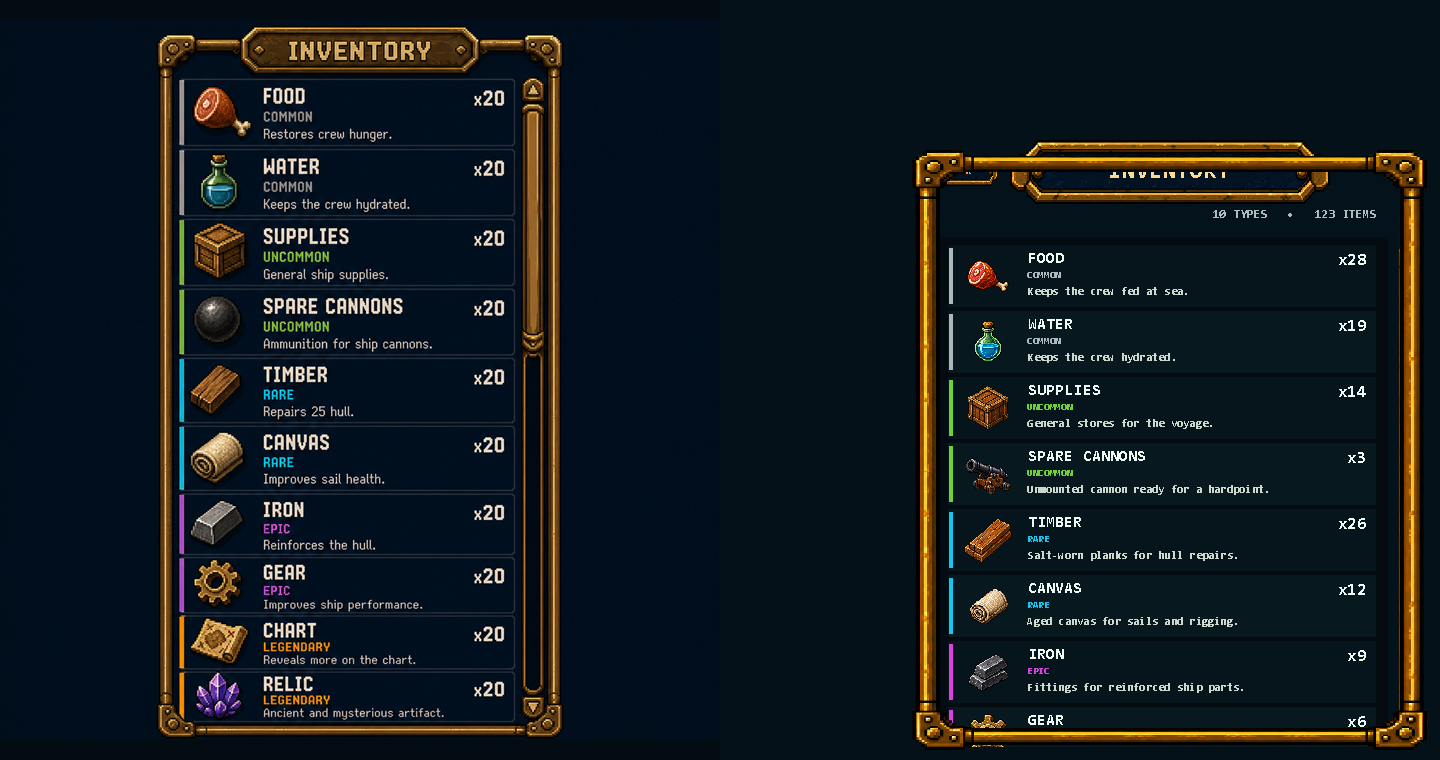
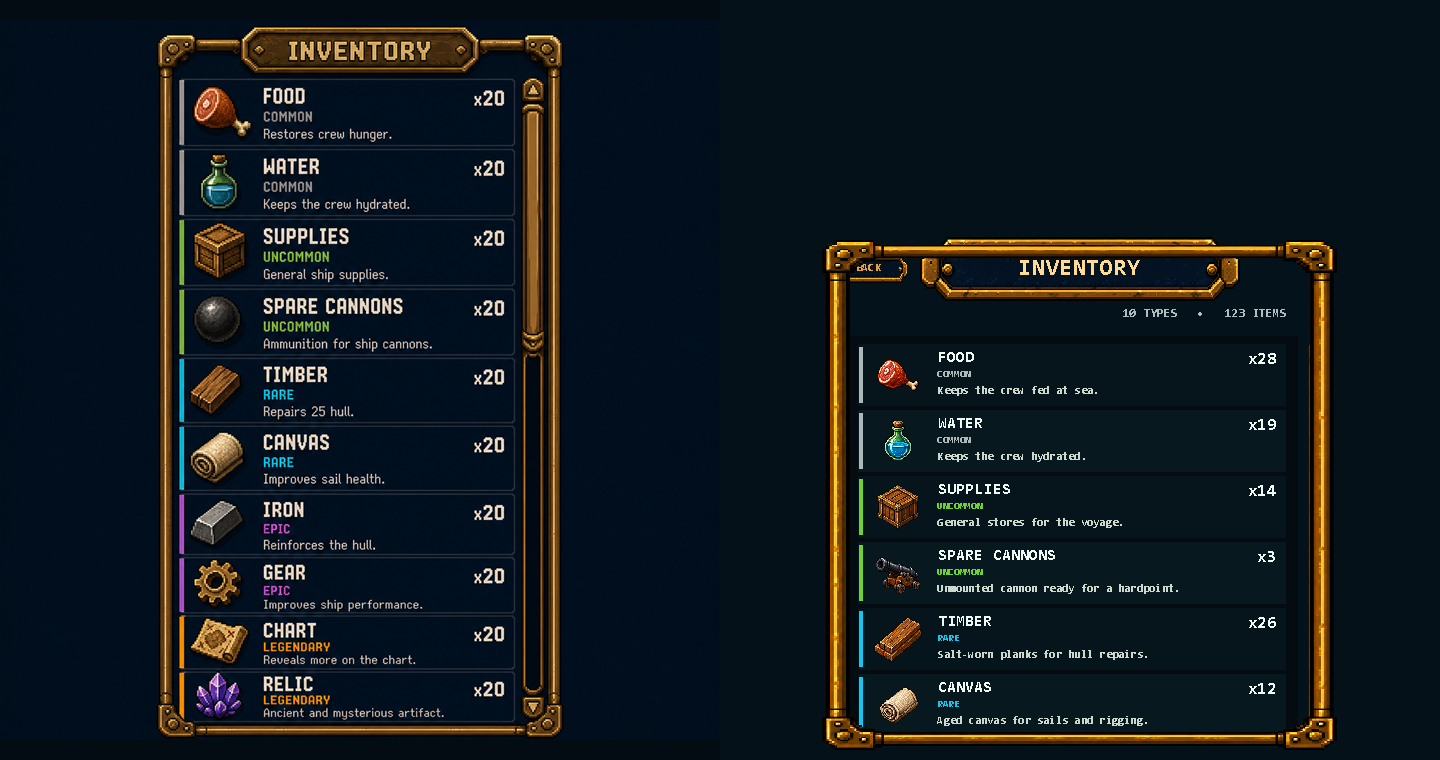
Center modal UI and keep concept art local

Changed region(s): [[0.5625, 0.1816, 1.0, 0.9987], [0.7812, 0.8776, 0.8125, 0.9079], [0.7812, 0.4539, 0.8125, 0.4842]]

diff --git a/Assets/Desktopirates/Scripts/Runtime/MenuController.cs b/Assets/Desktopirates/Scripts/Runtime/MenuController.cs
@@ -137,12 +137,17 @@ namespace Desktopirates
             loadBar.fillAmount = Mathf.Clamp01(loadRatio);
             hullBar.color = state.Hull <= state.MaxHull * 0.3f ? UiTheme.Danger : UiTheme.Mint;
             loadBar.color = loadRatio >= 0.92f ? UiTheme.Danger : loadRatio >= 0.78f ? UiTheme.Warning : UiTheme.Brass;
-            bool normalHud = (inventory == null || !inventory.IsOpen) && !IsModalOpen;
-            hudRoot.SetActive(normalHud);
-            inventory?.SetLauncherVisible(normalHud);
-            if (compassRoot != null) compassRoot.SetActive(normalHud);
+            bool normalNavigation = (inventory == null || !inventory.IsOpen) && !IsModalOpen;
+            // Hull, gold, crew and load are persistent ship state. Hiding them while
+            // shopping or sorting cargo made every decision harder to evaluate.
+            bool persistentStatusPanel = (inventory != null && inventory.IsOpen)
+                || (portRoot != null && portRoot.activeSelf)
+                || (shipyardRoot != null && shipyardRoot.activeSelf);
+            hudRoot.SetActive(normalNavigation || persistentStatusPanel);
+            inventory?.SetLauncherVisible(normalNavigation);
+            if (compassRoot != null) compassRoot.SetActive(normalNavigation);
             prompt.text = pois.InteractionPrompt;
-            prompt.transform.parent.gameObject.SetActive(normalHud && !string.IsNullOrEmpty(prompt.text));
+            prompt.transform.parent.gameObject.SetActive(normalNavigation && !string.IsNullOrEmpty(prompt.text));
             toast.transform.parent.gameObject.SetActive((inventory == null || !inventory.IsOpen) && Time.unscaledTime < toastUntil);
             if (mapRoot != null && Time.unscaledTime >= nextMapLiveUpdate) UpdateLiveMap();
             if (captainLogRoot != null && captainLogRoot.activeSelf) RefreshCaptainLog();
@@ -323,13 +328,13 @@ namespace Desktopirates
             back.sprite = UiTextureFactory.LoadConceptSprite("Chrome", "port_panel_frame");
             back.color = Color.white;
             RectTransform rect = (RectTransform)portRoot.transform;
-            rect.anchoredPosition = new Vector2(0f, -398f);
+            rect.anchoredPosition = new Vector2(0f, -UiLayoutMetrics.PortCenterY);
             rect.sizeDelta = Vector2.one * UiLayoutMetrics.PortFrameSize;
-            AddAuthoredPanelFill(portRoot.transform, new Vector2(458f, 458f));
+            AddAuthoredPanelFill(portRoot.transform, Vector2.one * (UiLayoutMetrics.PortFrameSize - 82f));
             AddPanelFrameOverlay(portRoot.transform, "port_panel_frame", rect.sizeDelta);
 
             RectTransform board = CreateUiObject("Harbor Readable Service Board", portRoot.transform);
-            board.anchoredPosition = new Vector2(28f, -2f);
+            board.anchoredPosition = new Vector2(UiLayoutMetrics.PortServiceBoardOffsetX, -2f);
             board.sizeDelta = new Vector2(UiLayoutMetrics.PortServiceBoardWidth, 452f);
             Image boardFill = board.gameObject.AddComponent<Image>(); boardFill.sprite = null; boardFill.color = Color.clear; boardFill.raycastTarget = false;
 
@@ -356,9 +361,9 @@ namespace Desktopirates
             shipyardRoot = CreateUiObject("Shipyard Customization", canvas).gameObject;
             Image back = shipyardRoot.AddComponent<Image>(); back.sprite = UiTextureFactory.LoadConceptSprite("Chrome", "shipyard_panel_frame"); back.color = Color.white;
             RectTransform rect = (RectTransform)shipyardRoot.transform;
-            rect.anchoredPosition = new Vector2(0f, -410f);
-            rect.sizeDelta = new Vector2(560f, 580f);
-            AddAuthoredPanelFill(shipyardRoot.transform, new Vector2(482f, 502f));
+            rect.anchoredPosition = new Vector2(0f, -500f);
+            rect.sizeDelta = new Vector2(560f, 500f);
+            AddAuthoredPanelFill(shipyardRoot.transform, new Vector2(482f, 422f));
             AddPanelFrameOverlay(shipyardRoot.transform, "shipyard_panel_frame", rect.sizeDelta);
             RectTransform titleFill = CreateUiObject("Shipyard Title Navy Fill", shipyardRoot.transform);
             titleFill.anchoredPosition = new Vector2(0f, 230f);

diff --git a/Assets/Desktopirates/Tests/EditMode/ArtPipelineTests.cs b/Assets/Desktopirates/Tests/EditMode/ArtPipelineTests.cs
@@ -167,6 +167,7 @@ namespace Desktopirates.Tests
             float summaryBottom = summaryTop + 22f;
             float viewportTop = InventoryManifestModel.PanelTopOffset - InventoryManifestModel.ViewportCenterY - InventoryManifestModel.ViewportHeight * 0.5f;
             Assert.That(titleTop - InventoryManifestModel.MenuCircleBottom, Is.GreaterThanOrEqualTo(8f));
+            Assert.That(titleTop - InventoryManifestModel.HudDashboardBottom, Is.GreaterThanOrEqualTo(8f));
             Assert.That(summaryTop, Is.GreaterThanOrEqualTo(titleBottom));
             Assert.That(viewportTop - summaryBottom, Is.GreaterThanOrEqualTo(8f));
 
@@ -176,6 +177,17 @@ namespace Desktopirates.Tests
             float countLeft = InventoryManifestModel.CountCenterX - InventoryManifestModel.CountWidth * 0.5f;
             Assert.That(textLeft - iconRight, Is.GreaterThanOrEqualTo(8f));
             Assert.That(countLeft - textRight, Is.GreaterThanOrEqualTo(8f));
+        }
+
+        [Test]
+        public void HarborAndInventoryPanels_AreCenteredBelowPersistentHud()
+        {
+            Assert.That(InventoryManifestModel.PanelCenterX, Is.EqualTo(0f));
+            Assert.That(UiLayoutMetrics.PortServiceBoardOffsetX, Is.EqualTo(0f));
+            Assert.That(UiLayoutMetrics.PortCenterY - UiLayoutMetrics.PortFrameSize * 0.5f,
+                Is.GreaterThan(InventoryManifestModel.HudDashboardBottom));
+            Assert.That(UiLayoutMetrics.PortCenterY + UiLayoutMetrics.PortFrameSize * 0.5f,
+                Is.LessThanOrEqualTo(InventoryManifestModel.ReferenceCanvasHeight));
         }
 
         [Test]

diff --git a/Assets/Desktopirates/Scripts/Runtime/InventoryManifestModel.cs b/Assets/Desktopirates/Scripts/Runtime/InventoryManifestModel.cs
@@ -31,19 +31,20 @@ namespace Desktopirates
         public const int EntryCount = 10;
         public const float RowHeight = 62f;
         public const float RowStride = 66f;
-        public const float ViewportHeight = 510f;
+        public const float ViewportHeight = 411f;
         public const float ReferenceCanvasWidth = 720f;
         public const float ReferenceCanvasHeight = 760f;
         public const float PanelWidth = 516f;
-        public const float PanelHeight = 600f;
-        public const float PanelCenterX = 90f;
-        public const float PanelTopOffset = 450f;
+        public const float PanelHeight = 510f;
+        public const float PanelCenterX = 0f;
+        public const float PanelTopOffset = 495f;
         public const float PanelFillInset = 14f;
         public const float MenuCircleBottom = 132f;
-        public const float TitleCenterY = 278f;
+        public const float HudDashboardBottom = 229f;
+        public const float TitleCenterY = 226f;
         public const float TitleHeight = 64f;
-        public const float SummaryCenterY = 235f;
-        public const float ViewportCenterY = -42f;
+        public const float SummaryCenterY = 181f;
+        public const float ViewportCenterY = -46.5f;
         public const float IconCenterX = -174f;
         public const float IconSize = 54f;
         public const float TextCenterX = -1f;

diff --git a/Assets/Desktopirates/Scripts/Runtime/InventoryController.cs b/Assets/Desktopirates/Scripts/Runtime/InventoryController.cs
@@ -95,8 +95,8 @@ namespace Desktopirates
 
         private void BuildInventory(RectTransform canvas)
         {
-            // 720x760 reference canvas: the panel leaves 12 px at the right,
-            // 10 px at the bottom, and 8 px between the title and menu circle.
+            // Centered in the canvas below the persistent ship HUD. The compact
+            // viewport intentionally scrolls so the sea remains visible at both sides.
             RectTransform panel = CreateRect("Concept Inventory Manifest", canvas,
                 new Vector2(InventoryManifestModel.PanelCenterX, -InventoryManifestModel.PanelTopOffset),
                 new Vector2(InventoryManifestModel.PanelWidth, InventoryManifestModel.PanelHeight));

diff --git a/Assets/Desktopirates/Scripts/Runtime/UiLayoutMetrics.cs b/Assets/Desktopirates/Scripts/Runtime/UiLayoutMetrics.cs
@@ -9,8 +9,10 @@ namespace Desktopirates
         public const float HudCardHeight = 78f;
         public const float HudCardSpacing = 178f;
         public const float HudCardSafeWidth = 108f;
-        public const float PortFrameSize = 540f;
+        public const float PortFrameSize = 500f;
+        public const float PortCenterY = 500f;
         public const float PortServiceBoardWidth = 382f;
+        public const float PortServiceBoardOffsetX = 0f;
         public const float PortServiceButtonWidth = 350f;
         public const float EnemyPlateWidth = 184f;
         public const float EnemyPlateHeight = 48f;

diff --git a/Docs/UiCenteringAndConceptSetReport.md b/Docs/UiCenteringAndConceptSetReport.md
@@ -1,0 +1,25 @@
+# UI Centering and Complete Concept Set Report
+
+Date: 2026-08-21
+
+## Implemented layout behavior
+
+- Inventory panel center X is `0` on the 720 x 760 reference canvas.
+- Inventory panel bounds are X `102..618`, giving equal 102-pixel margins.
+- Inventory is placed below the persistent status HUD rather than overlapping it.
+- Harbor outer panel and service board use the same center axis; the former 28-pixel service-board offset is removed.
+- HULL, GOLD, CREW, and LOAD remain visible while Inventory, Harbor Services, or Shipyard is open.
+- Navigation-only elements still hide while these panels are open to preserve sea and panel readability.
+
+## Verification
+
+- Unity EditMode: 113 passed, 0 failed.
+- Windows player build: successful.
+- Runtime captures:
+  - `outputs/RuntimeCapture-Inventory-Centered-Hud.png`
+  - `outputs/RuntimeCapture-Port-Centered-Hud.png`
+- Static inventory layout proof: `outputs/inventory-v04-layout-proof.png`
+
+## Concept coverage (local only)
+
+The locally retained 20-image set under `ArtSource/ConceptArt/2026-08-21-complete-set` covers tutorial, normal voyage, inventory, harbor, shipyard, crew, chart, salvage, combat, sinking, bosses, perk rewards, captain log, menu circle, mutations, and automatic docking. Concept-art sources are intentionally excluded from Git; the local directory's `README.md` contains the complete matrix and shared visual rules.
